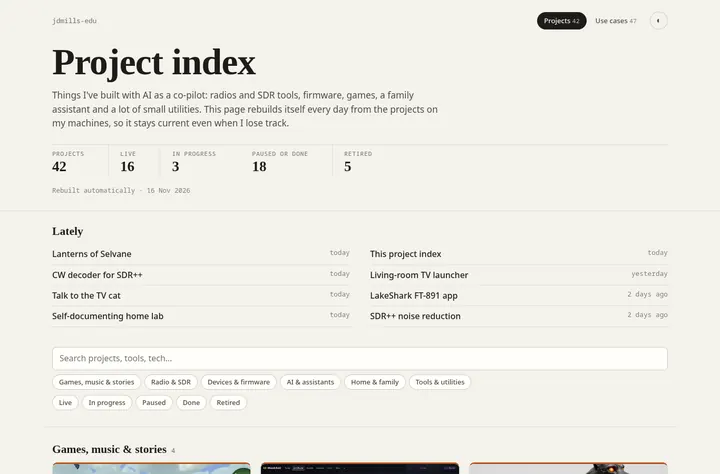
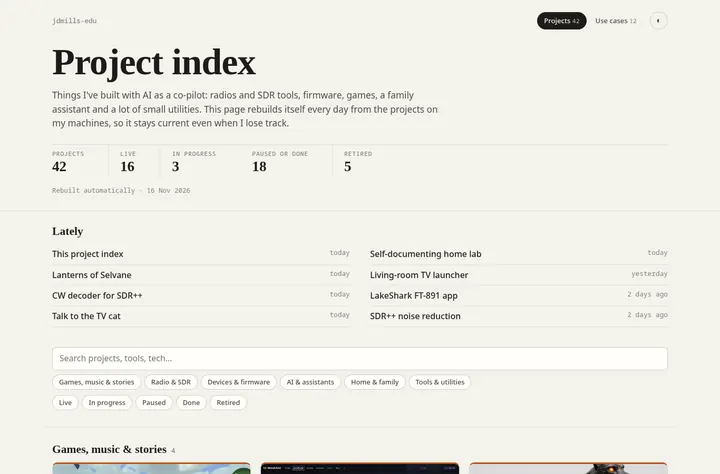
Update project index (2026-11-16)

Changed region(s): [[0.0611, 0.6203, 0.2444, 0.6793], [0.0611, 0.5316, 0.1833, 0.5907], [0.5194, 0.5316, 0.6722, 0.5612]]

diff --git a/index.html b/index.html
@@ -176,6 +176,19 @@ csv import. app store preparation is paused.
 <ul class="stack"><li>Swift</li><li>SwiftUI</li><li>Metal</li><li>Accelerate</li></ul>
 <details><summary>More</summary><div class="more"><p>SwiftUI with a GPU waterfall and spectrum and seven full-screen visualisers. WFM (stereo and RDS), NFM, AM and SSB demodulation runs on Accelerate, with noise reduction, CTCSS/DCS tone squelch, a scanner over bookmark groups, squelch-triggered recording, two VFOs inside one passband and CHIRP CSV import. App Store preparation is paused.</p></div></details>
 
+</div></article>
+<article class="card cat-radio has-thumb" id="p-ft8-station" data-category="radio" data-status="paused" data-search="ft8 receive station &amp; live map a receive-only ft8 station that hopped bands around the clock and plotted every decode on a live map. an hf loop and an rtl-sdr fed sdr++ and wsjt-x. a band-hopper followed a day/night plan on ft8
+period boundaries, and a watchdog relaunched the chain when the dongle disappeared. a small
+stdlib-only python app turned wsjt-x&#x27;s udp feed into a leaflet map with great-circle paths, licence
+lookups and server-sent events, and spots went to psk reporter. paused in november 2026.
+ python sdr++ wsjt-x hamlib leaflet sqlite">
+<button class="thumb fit-cover" type="button" data-gallery="[{&quot;src&quot;: &quot;shots/ft8-station-1.webp&quot;, &quot;w&quot;: 1260, &quot;h&quot;: 900, &quot;caption&quot;: &quot;Every station the receiver decoded, coloured by band (world view; the receiver&#x27;s own marker is hidden)&quot;}]" aria-label="View images of FT8 receive station &amp; live map"><img src="shots/ft8-station-1-t.webp" alt="Every station the receiver decoded, coloured by band (world view; the receiver&#x27;s own marker is hidden)" width="720" height="514" loading="lazy" decoding="async"></button><div class="card-body">
+<div class="card-head"><h3><a href="#p-ft8-station">FT8 receive station &amp; live map</a></h3><span class="status s-paused">Paused</span></div>
+<p class="tagline">A receive-only FT8 station that hopped bands around the clock and plotted every decode on a live map.</p>
+<p class="meta"><span>Since Sep 2026</span></p>
+<ul class="stack"><li>Python</li><li>SDR++</li><li>WSJT-X</li><li>Hamlib</li><li>Leaflet</li><li>SQLite</li></ul>
+<details><summary>More</summary><div class="more"><p>An HF loop and an RTL-SDR fed SDR++ and WSJT-X. A band-hopper followed a day/night plan on FT8 period boundaries, and a watchdog relaunched the chain when the dongle disappeared. A small stdlib-only Python app turned WSJT-X&#x27;s UDP feed into a Leaflet map with great-circle paths, licence lookups and server-sent events, and spots went to PSK Reporter. Paused in November 2026.</p></div></details>
+
 </div></article></div><div class="grid"><article class="card cat-radio" id="p-bf-f8hp-pro" data-category="radio" data-status="done" data-search="handheld radio programming a scripted channel plan and a native-linux firmware flash for a btech bf-f8hp pro. rather than typing hundreds of channels into chirp, scripts regenerate them from sources (repeater
 lists, faa airband frequencies, noaa weather, railroad channels) into fixed 100-channel zones, then
 upload the image and verify it against a readback. the firmware was updated from linux with the
@@ -202,19 +215,6 @@ screen. it fed an rtl_433 sensor logger (since retired) and the cascata ios app.
 <p class="meta"><span>Since Aug 2026</span><span>Touched <time datetime="2026-09-06">Sep 2026</time></span></p>
 <ul class="stack"><li>C</li><li>Linux kernel modules</li><li>rtl_tcp</li><li>rtl_433</li></ul>
 <details><summary>More</summary><div class="more"><p>The hotspot (Qualcomm MDM9607) ships with its USB port locked to peripheral mode and no host controller in the kernel. Three out-of-tree kernel modules, built against the matching vendor kernel, add one at runtime and push the OTG state machine into host mode. With a powered hub, each RTL-SDR dongle gets its own IP serving rtl_tcp, survives reboots, and appears on a custom SDR-themed status screen. It fed an rtl_433 sensor logger (since retired) and the Cascata iOS app.</p><p class="uc-links">Use cases: <a href="use-cases.html#u-sdr-signals-and-noise">Software-defined radio, from receivers to noise hunts</a></p></div></details>
-
-</div></article>
-<article class="card cat-radio" id="p-ft8-station" data-category="radio" data-status="paused" data-search="ft8 receive station &amp; live map a receive-only ft8 station that hopped bands around the clock and plotted every decode on a live map. an hf loop and an rtl-sdr fed sdr++ and wsjt-x. a band-hopper followed a day/night plan on ft8
-period boundaries, and a watchdog relaunched the chain when the dongle disappeared. a small
-stdlib-only python app turned wsjt-x&#x27;s udp feed into a leaflet map with great-circle paths, licence
-lookups and server-sent events, and spots went to psk reporter. paused in november 2026.
- python sdr++ wsjt-x hamlib leaflet sqlite">
-<div class="card-body">
-<div class="card-head"><h3><a href="#p-ft8-station">FT8 receive station &amp; live map</a></h3><span class="status s-paused">Paused</span></div>
-<p class="tagline">A receive-only FT8 station that hopped bands around the clock and plotted every decode on a live map.</p>
-<p class="meta"><span>Since Sep 2026</span></p>
-<ul class="stack"><li>Python</li><li>SDR++</li><li>WSJT-X</li><li>Hamlib</li><li>Leaflet</li><li>SQLite</li></ul>
-<details><summary>More</summary><div class="more"><p>An HF loop and an RTL-SDR fed SDR++ and WSJT-X. A band-hopper followed a day/night plan on FT8 period boundaries, and a watchdog relaunched the chain when the dongle disappeared. A small stdlib-only Python app turned WSJT-X&#x27;s UDP feed into a Leaflet map with great-circle paths, licence lookups and server-sent events, and spots went to PSK Reporter. Paused in November 2026.</p></div></details>
 
 </div></article></div></section><section class="cat-section" id="c-devices" data-section="devices"><h2>Devices &amp; firmware <span class="n">7</span></h2><div class="grid"><article class="card cat-devices has-thumb" id="p-flipper-morse-beacon" data-category="devices" data-status="done" data-search="morse beacon for flipper zero a flipper zero app that keys morse station ids and text beacons out of the sub-ghz radio. it sends cw and mcw (by toggling fsk). text can be typed on the flipper, sent from a phone over ble
 serial, or fed in on the uart pins. transmit is region-gated, with safe fallbacks when a saved
